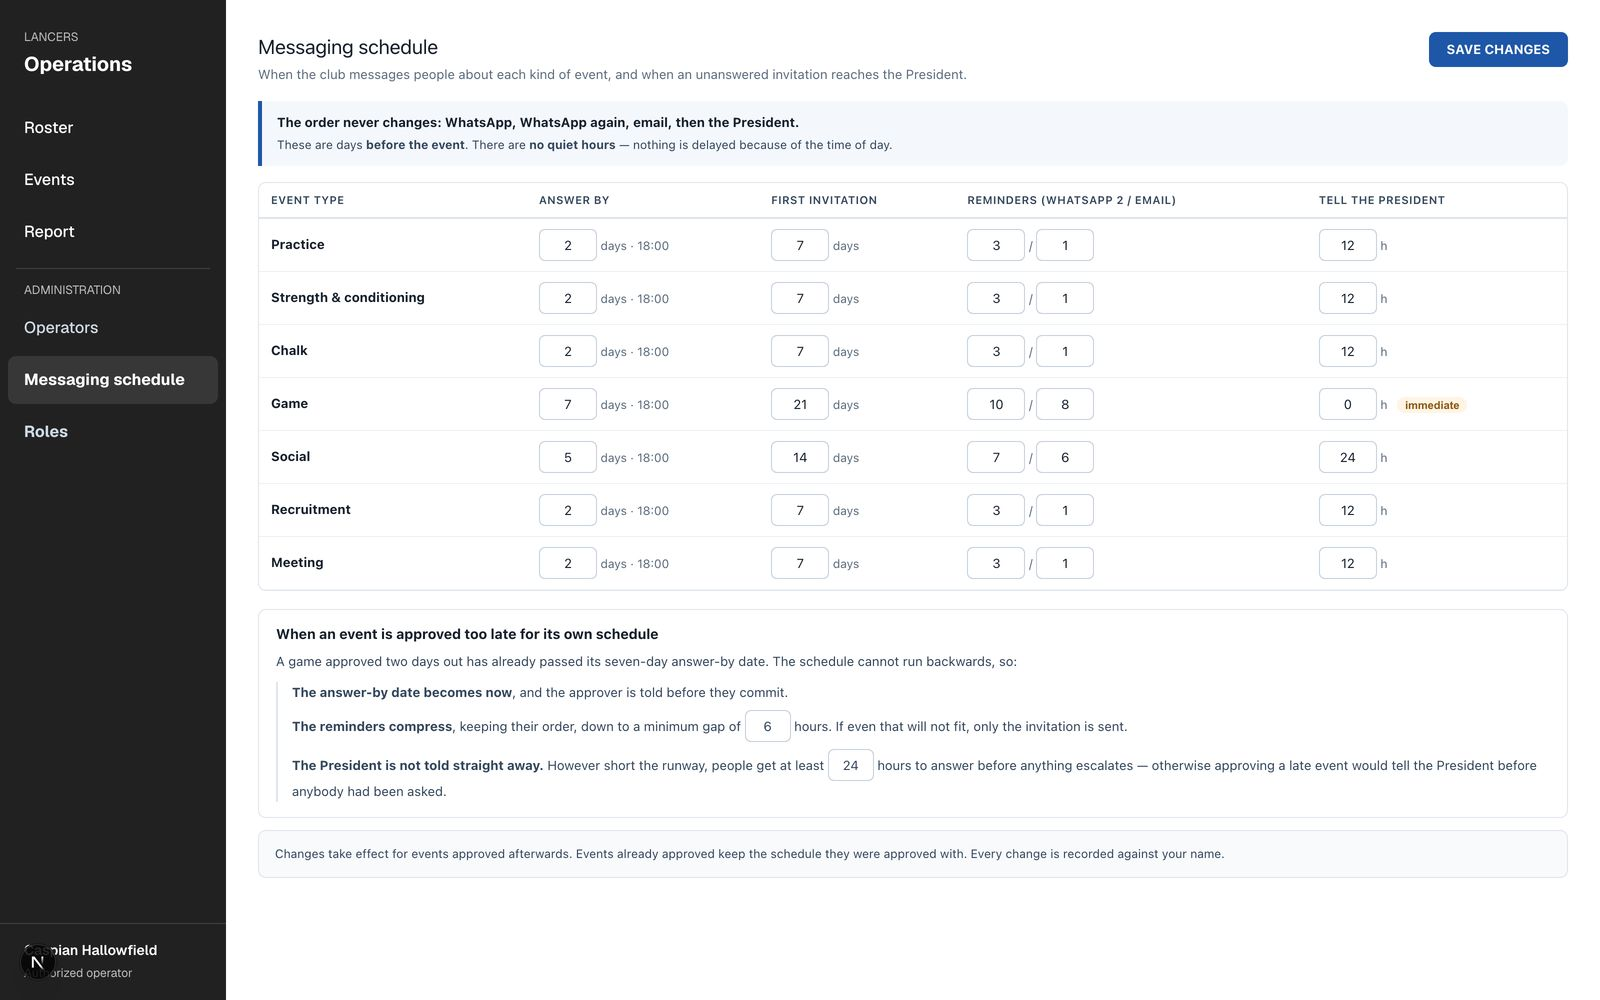
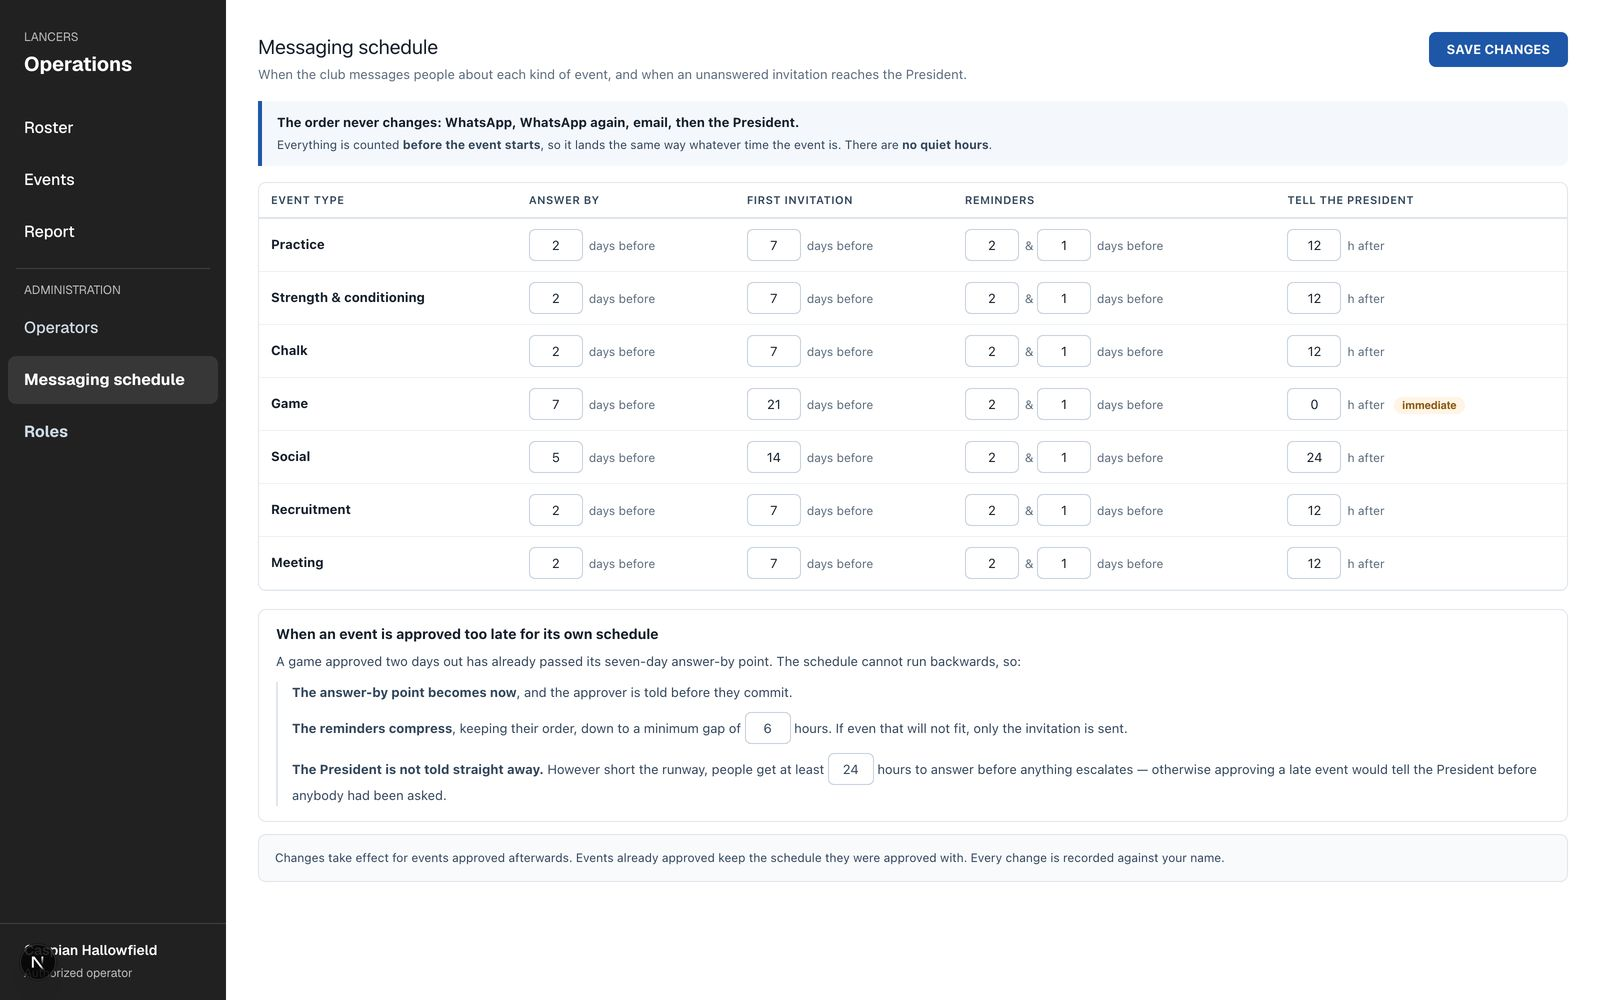
Rebuild the messaging schedule for phones, and drop the fixed clock
Three corrections from Brian, and the research he asked for.

The page squeezed a five-column table onto a phone. Both the published guidance
and this application's own participation surface say the same thing -- one card
per row, identifying field as the title, no horizontal scrolling -- so the
schedule now renders as cards below 700px and follows LAN-157's idiom rather
than inventing a second mobile pattern.

Reminders default to 2 days and 1 day before, across every type.

And the deadline loses its 18:00. Brian: it should read 2 days before the start
of the event, because the event is going to be different. That changes a value
ADR 0021 recorded -- it fixes every deadline at 18:00 Europe/London -- so it is
flagged for the same superseding ADR as the settings-page reversal. The timezone
resolution still belongs in PostgreSQL for British Summer Time, and an
early-morning event now yields an early-morning deadline, which no-quiet-hours
means nothing may delay.

diff --git a/missions/intake/M-AUTOMATED-COMMUNICATIONS-REMINDERS-RECOVERY/mockups/W7-find-out-what-the-clubs-messaging-rules-are-and-change-them.html b/missions/intake/M-AUTOMATED-COMMUNICATIONS-REMINDERS-RECOVERY/mockups/W7-find-out-what-the-clubs-messaging-rules-are-and-change-them.html
@@ -920,7 +920,8 @@
             <p>Under Administration beside Operators and Roles. Every event type gets its answer-by date, when the first invitation goes, when the two reminders follow, and how long after the deadline the President hears.</p>
             <ul class="deltas">
               <li>Editable, per event type — never per event</li>
-              <li>The ladder order is fixed and stated, not configurable</li>
+              <li>One card per event type on a phone, not a scrolling table</li>
+              <li>The ladder order is fixed and stated; only spacing is tuned</li>
               <li>No quiet hours, stated on the page</li>
               <li>Changes never apply to events already approved</li>
             </ul>
@@ -963,12 +964,20 @@
           <p class="rec"><b>Proposed rule:</b> escalation fires at the <i>later</i> of two moments — the answer-by date plus N, or <b>the first message actually being sent plus a minimum answer window</b> (shown as 24 hours). However short the runway, nobody is escalated about people who have not yet had a chance to answer. It is one more number on the page, and it is the third rule in the late-approval box.</p>
         </div>
 
+
+        <div class="blk gap">
+          <h3>Two changes from your review, and one you should notice</h3>
+          <p><b>Cards on a phone, not a squeezed table.</b> The research and your own app agree: one card per row, identifying field as the title, no horizontal scrolling. LAN-157's participation surface already does exactly this, so the schedule page follows it rather than inventing a second mobile pattern.</p>
+          <p><b>Reminders default to 2 and 1 days before</b>, across every event type.</p>
+          <p><b>The 18:00 is gone — and that changes an ADR 0021 value.</b> Deadlines were fixed at 18:00 Europe/London. Counting from the event's own start instead means a 20:00 practice answers by 20:00 two days before. It reads the same whatever time the event is, which is what you asked for. Two consequences: the timezone resolution still has to happen in PostgreSQL so British Summer Time stays correct, and an early-morning event now yields an early-morning deadline — which no-quiet-hours means nothing may delay. Small, because a deadline is a threshold rather than a send. The superseding ADR covers it alongside the settings-page reversal.</p>
+        </div>
+
         <div class="blk">
           <h3>Still needed from you: the numbers</h3>
           <p>Everything except the answer-by column is a placeholder. ADR 0021's precedent is that these must not be invented — it halted implementation once rather than launder an illustration into policy.</p>
           <ul>
             <li><b>First invitation</b> — shown 7 days out for a practice, 21 for a game, 14 for a social.</li>
-            <li><b>Reminder spacing</b> — for a game, WhatsApp 2 at 10 days and email at 8, against a 7-day answer-by.</li>
+            <li><b>Reminder spacing</b> — now defaulting to 2 days and 1 day before, per your steer. Confirm it holds for a game too, whose answer-by is 7 days out.</li>
             <li><b>Escalation</b> — 12 hours normally, <b>0 for a game</b>, 24 for a social.</li>
             <li><b>Minimum gap when compressing</b> — shown as 6 hours.</li>
             <li><b>Minimum answer window before escalation</b> — shown as 24 hours.</li>

diff --git a/missions/intake/M-AUTOMATED-COMMUNICATIONS-REMINDERS-RECOVERY/workflows/W7-find-out-what-the-clubs-messaging-rules-are-and-change-them.md b/missions/intake/M-AUTOMATED-COMMUNICATIONS-REMINDERS-RECOVERY/workflows/W7-find-out-what-the-clubs-messaging-rules-are-and-change-them.md
@@ -163,6 +163,48 @@ that the page is editable: the answer to "where is this changed" is "here", and
 the page states who may change it and what a change does not retroactively
 affect.
 
+## Everything is counted from the event start
+
+Brian, 2026-08-25: _"'by 18:00' is a little bit confusing. It should just be '2
+days before the start of the event' because the event is going to be
+different."_
+
+**This changes a value ADR 0021 recorded.** That ADR fixes every deadline at
+**18:00 Europe/London wall clock**, resolved in PostgreSQL so both British
+Summer Time transitions inside a season are correct. Counting from the event's
+own start instead means a 20:00 practice answers by 20:00 two days before, and a
+14:00 game by 14:00 seven days before.
+
+- **It is more predictable per event**, which is the point: one rule that reads
+  the same whatever time the event is.
+- **The BST correctness requirement does not go away.** "Two days before this
+  event's start" still has to be resolved in the club's timezone, so the
+  existing PostgreSQL resolution stays; only the anchor moves from a fixed clock
+  to the event's own time.
+- **It interacts with no-quiet-hours.** An early-morning event now produces an
+  early-morning deadline, and nothing may delay a message on that basis. That is
+  the honest consequence and it is small, because a deadline is a threshold
+  rather than a send.
+
+The superseding ADR that records the settings-page reversal covers this too.
+
+## What the research says
+
+Brian asked for the recommended pattern rather than a guess. Two findings shaped
+the page:
+
+- **One card per row on a phone, never a scrolling table.** The card view puts
+  the identifying field as the card title with its fields beneath, removes
+  horizontal scrolling, and keeps every column reachable. This is also the idiom
+  the application already uses — LAN-157's `participation-card` — so following it
+  is consistency rather than novelty.
+- **Cadence settings belong in one place, grouped, with the volume visible.**
+  The recurring guidance is to avoid repeated notifications for the same event,
+  group what belongs together, and give explicit control over frequency. The
+  page therefore shows the whole ladder for a type on one row rather than
+  scattering offsets, and states the fixed order above the table so the thing
+  being tuned is spacing rather than sequence.
+
 ## Handoffs
 
 - **→ W1** — the plan an approver reads is rendered from these values. W7 owns
@@ -207,19 +249,20 @@ affect.
 
 ## Core decisions
 
-| Decision                                                                      | Classification                | Governing evidence or recommended default                                                              | Status                         |
-| ----------------------------------------------------------------------------- | ----------------------------- | ------------------------------------------------------------------------------------------------------ | ------------------------------ |
-| A settings page exists at `/operate/admin/messaging`, reversing ADR 0021      | `proposed for owner approval` | Brian 2026-08-25: "Okay, we're building it. We're changing what we said here." Needs a superseding ADR | **Reversal — needs recording** |
-| Response deadlines keep ADR 0021's shipped values                             | `locked`                      | `T03-deadline-values`; the table ships today                                                           | Settled                        |
-| No per-event override                                                         | `locked`                      | ADR 0021                                                                                               | Settled                        |
-| There are no quiet hours                                                      | `locked`                      | `OWN-no-quiet-hours`, confirmed at W1                                                                  | Settled                        |
-| It lives under Administration, beside Follow-ups                              | `proposed for owner approval` | Consistent with the W5 placement decision                                                              | Recommended                    |
-| The invitation anchor and ladder offsets                                      | `proposed for owner approval` | No approved values exist; ADR 0021's precedent is that they must not be invented                       | **Needs Brian — values**       |
-| Escalation N per event type                                                   | `proposed for owner approval` | `T03-escalation-hours` fixes the shape, not the numbers                                                | **Needs Brian — values**       |
-| Short-runway compression                                                      | `proposed for owner approval` | The earlier drop-and-gap proposal was reopened and is not approved                                     | **Needs Brian — four options** |
-| Escalation never fires before a minimum answer window after the first message | `proposed for owner approval` | Nothing connected a clamped deadline to escalation N; a game at N=0 would escalate at approval         | **New rule — needs Brian**     |
-| Changes never apply retroactively to approved events                          | `proposed for owner approval` | Their deadlines are frozen on the invitation and their jobs already scheduled                          | Recommended                    |
-| Where the sibling policy file sits and its shape                              | `delegated to Mission Lead`   | `T03-config-location` fixes that it is one sibling file                                                | Delegated                      |
+| Decision                                                                              | Classification                | Governing evidence or recommended default                                                              | Status                             |
+| ------------------------------------------------------------------------------------- | ----------------------------- | ------------------------------------------------------------------------------------------------------ | ---------------------------------- |
+| A settings page exists at `/operate/admin/messaging`, reversing ADR 0021              | `proposed for owner approval` | Brian 2026-08-25: "Okay, we're building it. We're changing what we said here." Needs a superseding ADR | **Reversal — needs recording**     |
+| Deadlines keep ADR 0021's day counts but are measured from the event start, not 18:00 | `proposed for owner approval` | Brian 2026-08-25: "it should just be 2 days before the start of the event". Changes an ADR 0021 value  | **Value change — needs recording** |
+| No per-event override                                                                 | `locked`                      | ADR 0021                                                                                               | Settled                            |
+| There are no quiet hours                                                              | `locked`                      | `OWN-no-quiet-hours`, confirmed at W1                                                                  | Settled                            |
+| It lives under Administration, beside Follow-ups                                      | `proposed for owner approval` | Consistent with the W5 placement decision                                                              | Recommended                        |
+| The two reminders default to 2 days and 1 day before the event                        | `proposed for owner approval` | Brian 2026-08-25: "we should default to 2-1 on how many reminders they get"                            | Recommended                        |
+| The invitation anchor and ladder offsets                                              | `proposed for owner approval` | No approved values exist; ADR 0021's precedent is that they must not be invented                       | **Needs Brian — values**           |
+| Escalation N per event type                                                           | `proposed for owner approval` | `T03-escalation-hours` fixes the shape, not the numbers                                                | **Needs Brian — values**           |
+| Short-runway compression                                                              | `proposed for owner approval` | The earlier drop-and-gap proposal was reopened and is not approved                                     | **Needs Brian — four options**     |
+| Escalation never fires before a minimum answer window after the first message         | `proposed for owner approval` | Nothing connected a clamped deadline to escalation N; a game at N=0 would escalate at approval         | **New rule — needs Brian**         |
+| Changes never apply retroactively to approved events                                  | `proposed for owner approval` | Their deadlines are frozen on the invitation and their jobs already scheduled                          | Recommended                        |
+| Where the sibling policy file sits and its shape                                      | `delegated to Mission Lead`   | `T03-config-location` fixes that it is one sibling file                                                | Delegated                          |
 
 ## Brian approval
 
